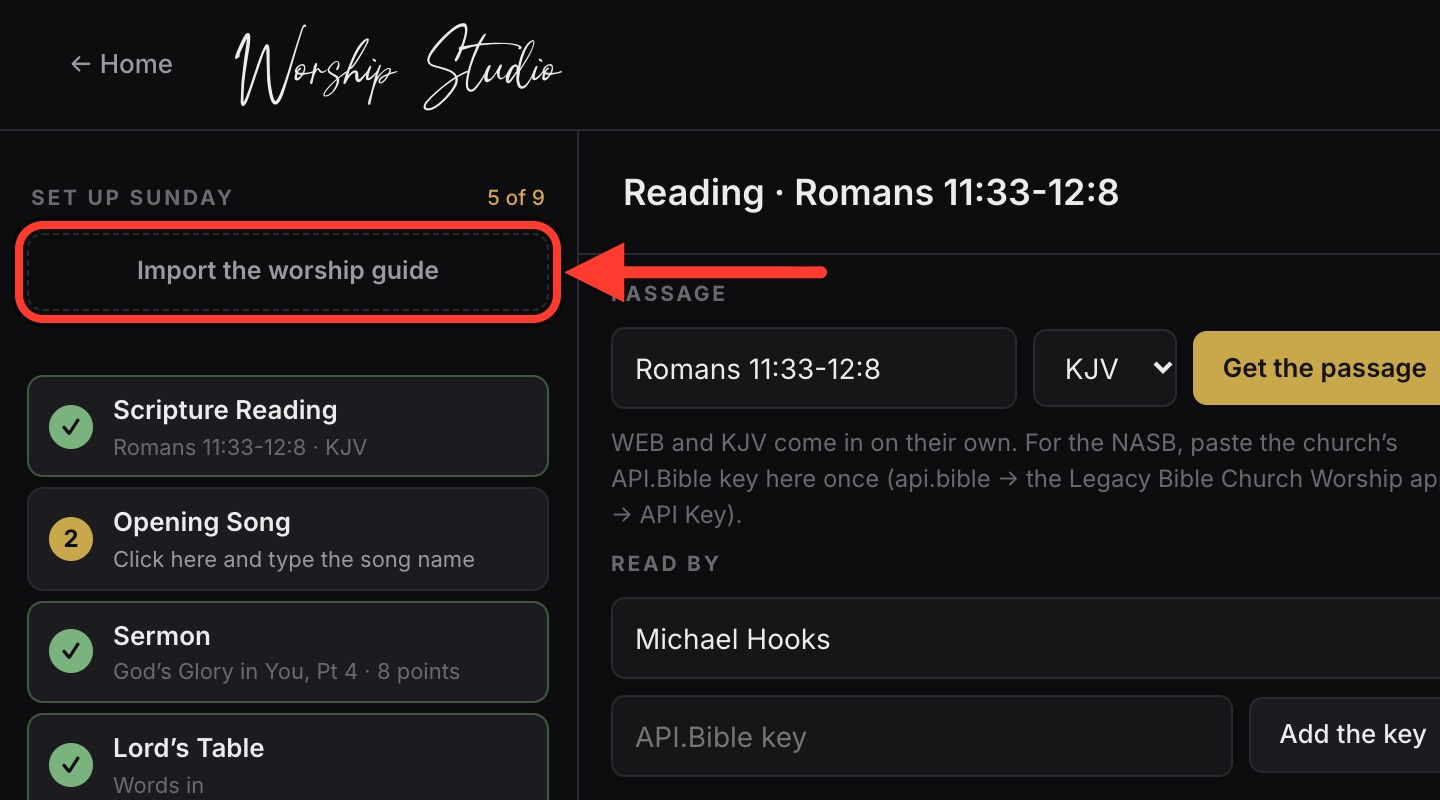
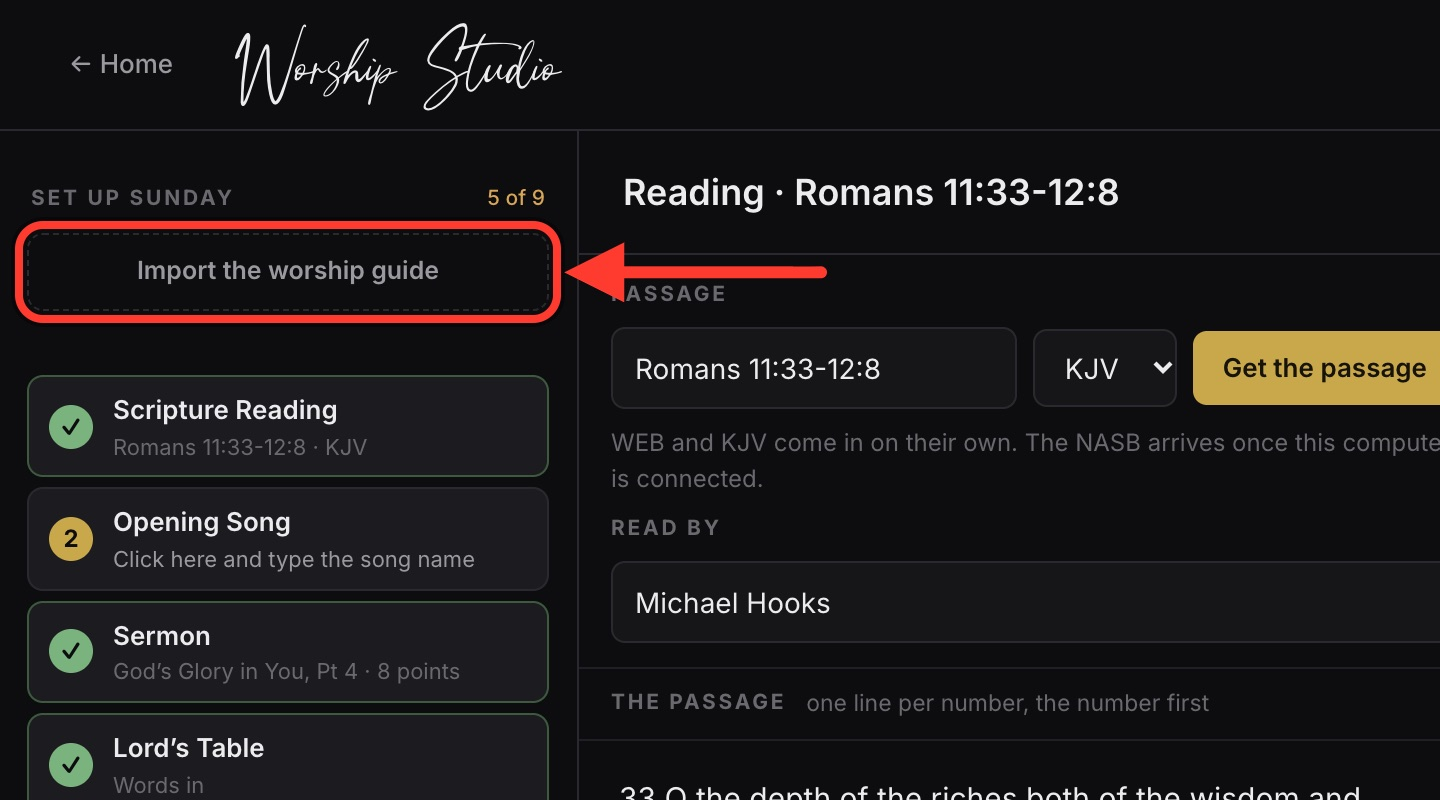
jobs: Studio pictures retaken without the Bible key box

diff --git a/jobs/slides/index.html b/jobs/slides/index.html
@@ -21,12 +21,12 @@
       <a class="shot" href="drive.jpg" target="_blank" rel="noopener"><img src="drive.jpg" width="990" height="432" alt="The Worship Guides folder with this Sunday&rsquo;s guide circled"></a>
       <a class="btn" href="https://drive.google.com/drive/folders/1c20gNrB0OHoh_AZVM74sEqZhTE2I2h67" target="_blank" rel="noopener">Open Worship Guides &rarr;</a></div>
     <div class="step pic"><div class="n">2</div><div class="t">Click <b>Import the worship guide</b>. Choose the file.</div>
-      <a class="shot" href="studio-import.jpg" target="_blank" rel="noopener"><img src="studio-import.jpg" width="1440" height="800" loading="lazy" alt="The Studio with the Import the worship guide button circled"></a>
+      <a class="shot" href="studio-import.jpg?v=2" target="_blank" rel="noopener"><img src="studio-import.jpg?v=2" width="1440" height="800" loading="lazy" alt="The Studio with the Import the worship guide button circled"></a>
       <a class="btn" href="../../worship-studio.html">Open the Studio &rarr;</a></div>
     <div class="step pic"><div class="n">3</div><div class="t">Review each row. Especially the songs.</div>
-      <a class="shot" href="studio-review.jpg" target="_blank" rel="noopener"><img src="studio-review.jpg" width="1440" height="1240" loading="lazy" alt="The Studio with the list of rows circled"></a></div>
+      <a class="shot" href="studio-review.jpg?v=2" target="_blank" rel="noopener"><img src="studio-review.jpg?v=2" width="1440" height="1240" loading="lazy" alt="The Studio with the list of rows circled"></a></div>
     <div class="step pic"><div class="n">4</div><div class="t">Click <b>Ready for Sunday</b>.</div>
-      <a class="shot" href="studio-ready.jpg" target="_blank" rel="noopener"><img src="studio-ready.jpg" width="1440" height="720" loading="lazy" alt="The Studio with the Ready for Sunday row circled"></a></div>
+      <a class="shot" href="studio-ready.jpg?v=2" target="_blank" rel="noopener"><img src="studio-ready.jpg?v=2" width="1440" height="720" loading="lazy" alt="The Studio with the Ready for Sunday row circled"></a></div>
 
     <h2>Sunday morning</h2>
     <div class="step"><div class="n">5</div><div class="t">Print the worship guide and hand it out.</div></div>
